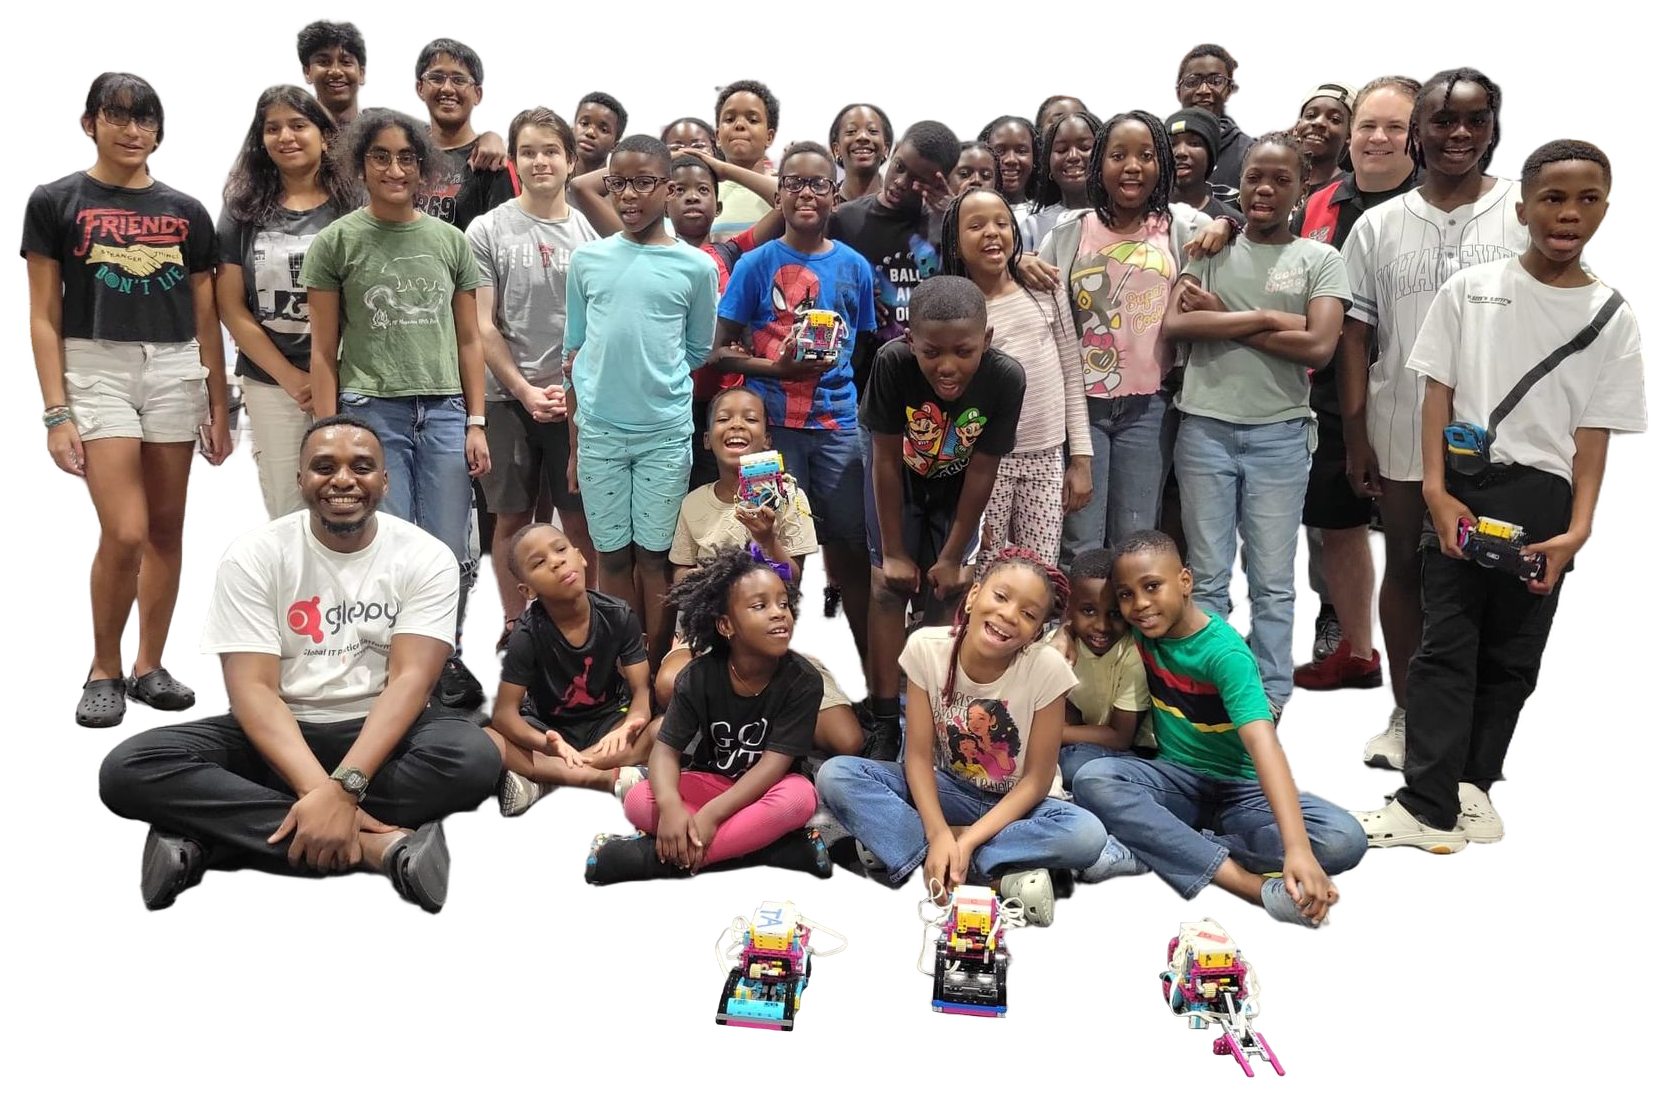
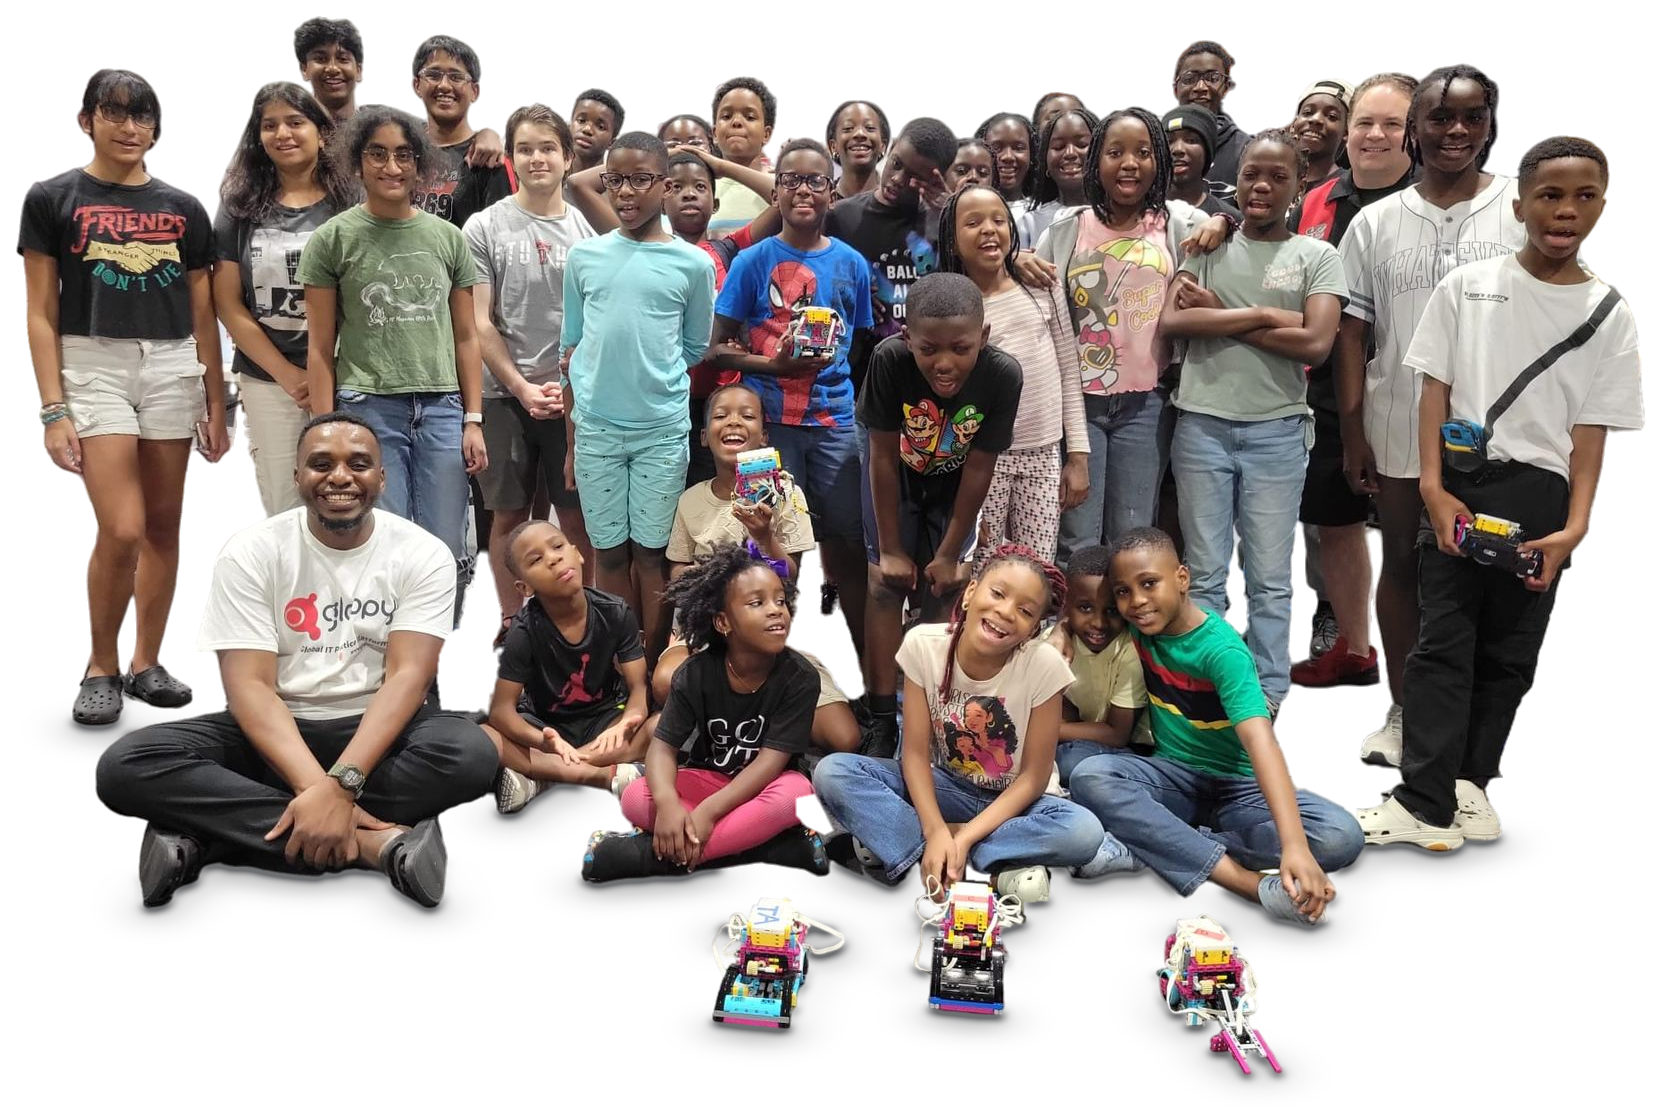
Preview only (?hero=cutout): cleaned hero cut-out v2 (floor/bag leftovers removed, painted contact shadows); default hero unchanged

diff --git a/styles.css b/styles.css
@@ -690,5 +690,5 @@ html[data-bg="steel"]:not([data-accent="blue"]) .footer nav a:hover{color:var(--
 .photo--cutout .photo__img,.photo--cutout .photo__img--real{aspect-ratio:auto!important;background:none;overflow:visible;position:relative}
 .photo--cutout .photo__img img{height:auto;object-fit:contain;position:relative;z-index:1}
 .photo--cutout .photo__img::after{content:"";position:absolute;left:4%;right:4%;bottom:-1.5%;height:16%;z-index:0;border-radius:50%;
-  background:radial-gradient(closest-side,rgba(14,15,18,.16),rgba(14,15,18,0))}
+  background:radial-gradient(closest-side,rgba(14,15,18,.10),rgba(14,15,18,0))}
 .photo--cutout{max-width:1180px;margin-inline:auto}

diff --git a/script.js b/script.js
@@ -101,6 +101,6 @@ if (Q.get('hero') === 'cutout') {
     fig.classList.add('photo--cutout');
     const src = fig.querySelector('source'), img = fig.querySelector('img');
     if (src) src.srcset = 'assets/photos/mckinney-build-day-2024-cutout.webp';
-    if (img) { img.src = 'assets/photos/mckinney-build-day-2024-cutout.png'; img.width = 1669; img.height = 1096; }
+    if (img) { img.src = 'assets/photos/mckinney-build-day-2024-cutout.png'; img.width = 1662; img.height = 1117; }
   }
 }
